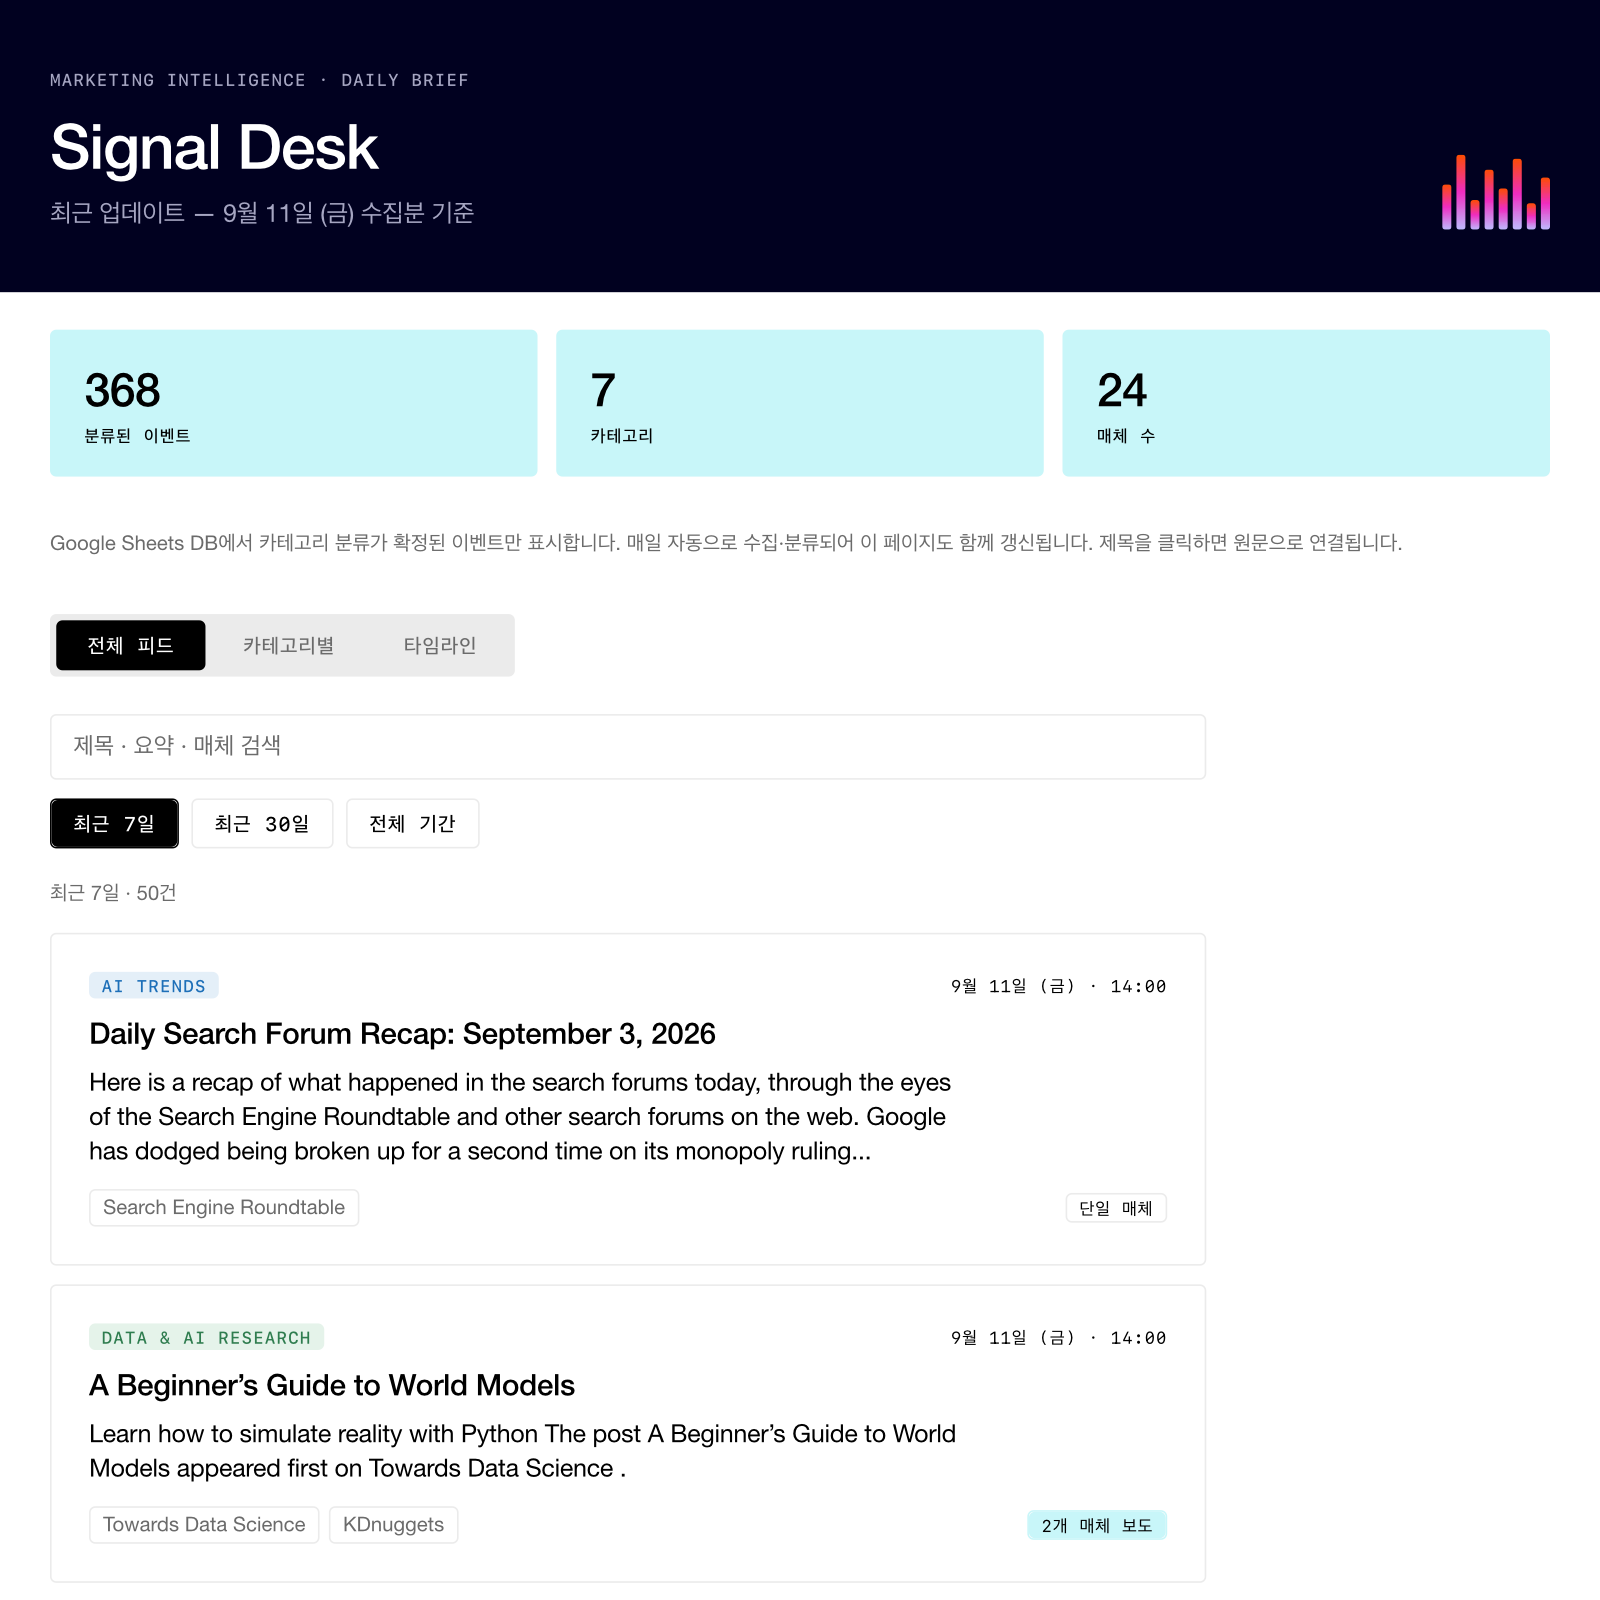
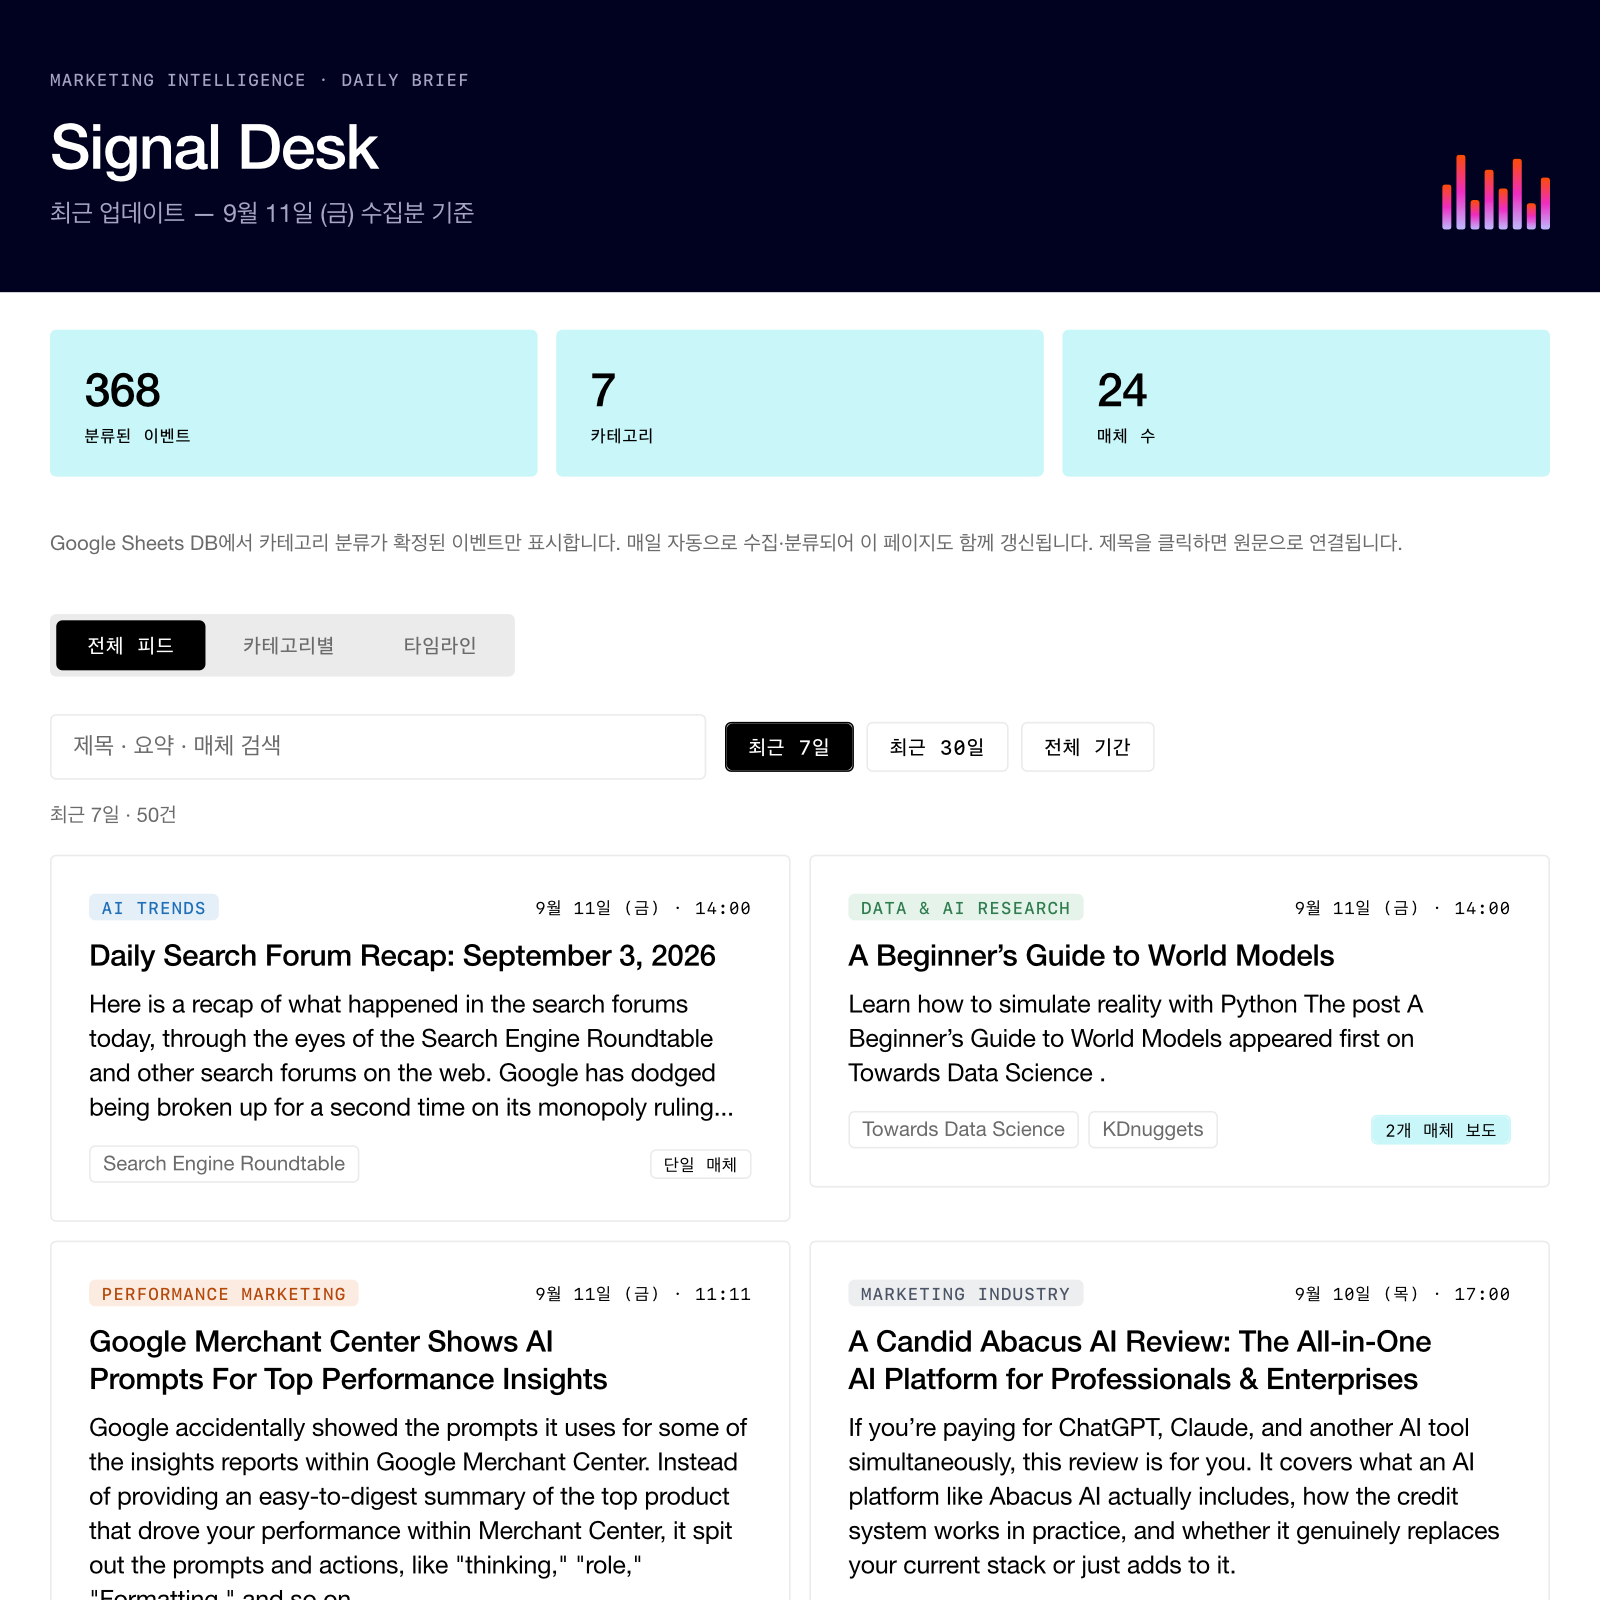
Fill the container width on the feed tab
The feed list was capped at 740px inside a 1120px wrap, so on a 1920px
screen it used 38% of the width, sat left of center, and the content
column jumped whenever the user switched tabs -- the category and
timeline tabs already spanned the full container.

Lay the feed out as repeat(auto-fill, minmax(430px,1fr)): two 522px
columns at 1120px and above, two 442px columns down to 960px, one column
below that. Put the search field and the range pills on a single row.
Applied to the template as well, which still renders docs/index.html
byte for byte.

diff --git a/docs/index.html b/docs/index.html
@@ -130,12 +130,14 @@
   a.mini-card{ cursor:pointer; transition:border-color 0.12s ease; }
   a.mini-card:hover{ border-color:var(--ink); }
 
-  .feed-controls{ max-width:740px; }
-  #feed-q{ width:100%; font-family:inherit; font-size:15px; line-height:20px; color:var(--ink); background:var(--canvas);
-    padding:10px 14px; border:1px solid var(--hairline); border-radius:var(--r-sm); margin-bottom:12px; }
+  .feed-controls{ display:flex; align-items:center; gap:12px; flex-wrap:wrap; margin-bottom:14px; }
+  .feed-controls .cat-filter{ margin-bottom:0; }
+  #feed-q{ flex:1 1 260px; max-width:420px; font-family:inherit; font-size:15px; line-height:20px; color:var(--ink); background:var(--canvas);
+    padding:10px 14px; border:1px solid var(--hairline); border-radius:var(--r-sm); }
   #feed-q::placeholder{ color:var(--body); }
   #feed-q:focus{ outline:2px solid var(--ink); outline-offset:1px; border-color:var(--ink); }
-  #feed-view .list{ display:flex; flex-direction:column; gap:12px; max-width:740px; }
+  #feed-view .list{ display:grid; grid-template-columns:repeat(auto-fill, minmax(430px,1fr)); gap:12px; align-items:start; }
+  #feed-view .list > p, #feed-view .list > button{ grid-column:1 / -1; }
   .article-card{ background:var(--canvas); border:1px solid var(--hairline); border-radius:var(--r-sm); padding:24px; }
   .article-card .row-top{ display:flex; align-items:center; justify-content:space-between; gap:12px; margin-bottom:10px; }
   .article-card h3{ margin:6px 0 8px; }

diff --git a/templates/dashboard_template.html b/templates/dashboard_template.html
@@ -130,12 +130,14 @@
   a.mini-card{ cursor:pointer; transition:border-color 0.12s ease; }
   a.mini-card:hover{ border-color:var(--ink); }
 
-  .feed-controls{ max-width:740px; }
-  #feed-q{ width:100%; font-family:inherit; font-size:15px; line-height:20px; color:var(--ink); background:var(--canvas);
-    padding:10px 14px; border:1px solid var(--hairline); border-radius:var(--r-sm); margin-bottom:12px; }
+  .feed-controls{ display:flex; align-items:center; gap:12px; flex-wrap:wrap; margin-bottom:14px; }
+  .feed-controls .cat-filter{ margin-bottom:0; }
+  #feed-q{ flex:1 1 260px; max-width:420px; font-family:inherit; font-size:15px; line-height:20px; color:var(--ink); background:var(--canvas);
+    padding:10px 14px; border:1px solid var(--hairline); border-radius:var(--r-sm); }
   #feed-q::placeholder{ color:var(--body); }
   #feed-q:focus{ outline:2px solid var(--ink); outline-offset:1px; border-color:var(--ink); }
-  #feed-view .list{ display:flex; flex-direction:column; gap:12px; max-width:740px; }
+  #feed-view .list{ display:grid; grid-template-columns:repeat(auto-fill, minmax(430px,1fr)); gap:12px; align-items:start; }
+  #feed-view .list > p, #feed-view .list > button{ grid-column:1 / -1; }
   .article-card{ background:var(--canvas); border:1px solid var(--hairline); border-radius:var(--r-sm); padding:24px; }
   .article-card .row-top{ display:flex; align-items:center; justify-content:space-between; gap:12px; margin-bottom:10px; }
   .article-card h3{ margin:6px 0 8px; }

diff --git a/screenshots/2026-09-12-after/README.md b/screenshots/2026-09-12-after/README.md
@@ -12,3 +12,7 @@
 3. **대비·마이크로텍스트·키보드** — `--body` `#8f8f8f`(3.23:1) → `#6b6b6b`(5.33:1),
    캘린더 카운트 8px → 10px 및 날짜 숫자와 겹치지 않게 배치,
    이벤트가 있는 날짜를 `<div>` → `<button>` 으로 바꿔 Tab/Enter 선택 가능 + `aria-pressed`.
+4. **넓은 화면 대응** — 피드만 740px 고정 폭이라 1920px 에서 화면의 38% 만 왼쪽에 치우쳐 쓰고
+   탭을 옮길 때마다 콘텐츠 폭이 튀었다. 피드를 `repeat(auto-fill, minmax(430px,1fr))` 그리드로
+   바꿔 컨테이너를 채운다(1120px 이상 2열 522px, 960px 2열 442px, 900px 이하 1열).
+   검색창과 기간 필터도 한 줄로 합쳤다.
